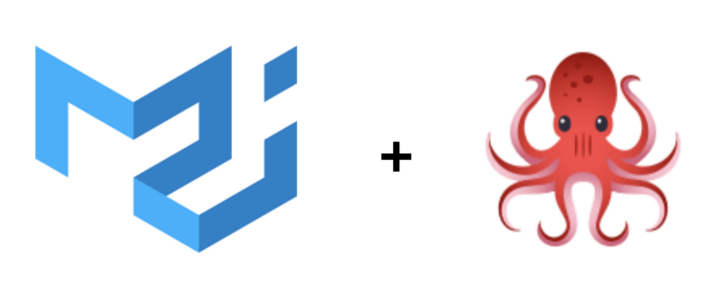
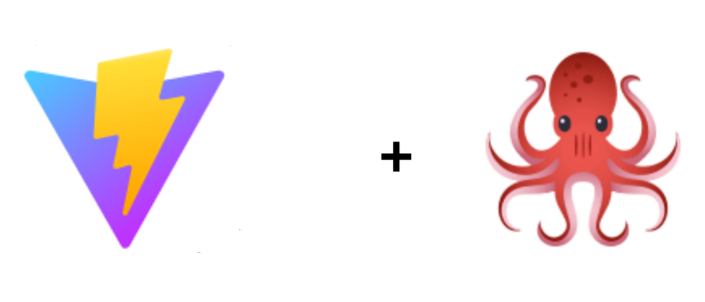
feat: Add custom Article testing-front-with-testing-library and vite

Changed region(s): [[0.0312, 0.149, 0.4369, 0.8344], [0.3745, 0.149, 0.4369, 0.3278]]

diff --git a/src/data/index.js b/src/data/index.js
@@ -34,7 +34,8 @@ export const cardsSkillsBlog = [
       "Frontend"
     ],
     "intro": "In software development the priority is quality and speed, and the best way to reach this is learn Material UI, the best library of components for react",
-    "image": "../src/assets/imgs/skill-cards/front1.png"
+    "image": "../src/assets/imgs/skill-cards/front1.png",
+    "content": []
   },
   {
     "id": 3,
@@ -44,7 +45,8 @@ export const cardsSkillsBlog = [
       "Testing Library"
     ],
     "intro": "Everybody know that testing is an essential practice in software development that help us to build robust and hight quality app. To test front-end react apps uses testing library",
-    "image": "../src/assets/imgs/skill-cards/thumb-section.jpg"
+    "image": "../src/assets/imgs/skill-cards/thumb-section.jpg",
+    "content": []
   },
   {
     "id": 4,
@@ -55,18 +57,172 @@ export const cardsSkillsBlog = [
       "CSS"
     ],
     "intro": "The CSS box model is a container that contains multiple properties including borders, margin, padding, and the content itself. Learn how to apply it, is the first step to create usables and effective design apps",
-    "image": "../src/assets/imgs/skill-cards/es6yjs.png"
+    "image": "../src/assets/imgs/skill-cards/es6yjs.png",
+    "content": []
   },
   {
     "id": 5,
-    "title": "Testing front with testing library in MaterialUI",
+    "title": "Testing front with testing library and Vite",
     "section": "testing",
     "badge": [
       "Testing Library",
       "React"
     ],
     "intro": "Vite is a great and amazing boilerplate to developing speed react apps, but is neccesary make some configurations, here will explore some strategies to start the suite test",
-    "image": "../src/assets/imgs/skill-cards/sass.png"
+    "image": "../src/assets/imgs/skill-cards/sass.png",
+    "content": [
+      {
+        "type": "p",
+        "node": [
+          {
+            "type": "nested",
+            "node": "<strong>Importante:</strong> Los conceptos son generales y aplican para cualquier aplicación escrita en x lenguaje, sin embargo las herramientas son particularmente utilizadas para testear una aplicación desarrollada con react.",
+          }
+        ],
+      },
+      {
+        "type": "h4",
+        "node": "Pruebas unitarias en Vite"
+      },
+      {
+        "type": "p",
+        "node": [
+          {
+            "type": "nested",
+            "node": "Para comenzar siempre es importante dar una atenta leída al <strong>get started</strong> del recurso en cuestión, es este caso de jest, aquí: <a href='https://jestjs.io/docs/getting-started'><em>Jest Getting Started</em></a>"
+          }
+        ]
+      },
+      {
+        "type": "p",
+        "node": "Igualmente para todos los desarrolladores involucrados la creación de pruebas unitarias es muy favorable comenzar con la automátización del proceso de ejecución, es muy pesado andar ejecutando comandos repetitivos una y otra vez, cuando se puede ejecutar uno que se mantenga a la escucha de cambios, aquí el de jest: "
+      },
+      {
+        "type": "code",
+        "node": "jest --watchAll"
+      },
+      {
+        "type": "p",
+        "node": "No olvides instalar la dependencia de jest en Vite, y por supuesto la librería de testing para react, yo lo hago con yarn:"
+      },
+      {
+        "type": "code",
+        "node": "yarn add jest @testing-library/react"
+      },
+      {
+        "type": "p",
+        "node": "Otra cuestión de ayuda muy importante para el desarrollo hoy en día lo proporcionan las IDE's, la más importante hoy en día por mucho es Visual Studio Code, con ayuda de su intellisense tenemos acceso a métodos y propiedades de la librería de jest de forma predictiva, para ello basta con escribir las primeras letras para que nos sugiera algún autocompletado, sin embargo no es automático; hay que instalar los tipos de Jest con el siguiente comando:"
+      },
+      {
+        "type": "code",
+        "node": "yarn add –D @types/jest"
+      },
+      {
+        "type": "p",
+        "node": [
+          {
+            "type": "nested",
+            "node": "Algo más que nos puede ayudar a mejorar el flujo de trabajo y hacerlo más rapido y eficiente, es aislar las pruebas por componente trabajado. Ya que si se estamos en modo “observador” cada cambio involucra todo el conjunto de pruebas que viven dentro de la carpeta test, lo que significa que ejecutara todo el proyecto por cada cambio, ineficiente no? Jest a través de la Línea de comandos nos ofrece la solucion: después de realizar algún cambio en el archivo a trabajar, presionar la letra <strong>w</strong>, estando en el CLI y a continuación la letra <strong>p</strong> lo que nos permitirá escribir el título del archivo y ejecutar unicamente ese test. El realizar esta acción mantiene a Jest escuchando cambiós en ese archivo; cuándo necesitemos pasar a otro archivo o componente realizamos el mismo procedimiento y listo."
+          }
+        ]
+      },
+      {
+        "type": "h4",
+        "node": "Recomendaciones y buenas prácticas al realizar pruebas unitarias:"
+      },
+      {
+        "type": "p",
+        "node": "A continuación una pequeña lista con algunas recomendaciones para realizar las pruebas unitarias:"
+      },
+      {
+        "type": "ul",
+        "node": [
+          {
+            "type": "nested",
+            "node": "<li>Es recomendable trabajar con el Snapshot sólo cuando se tiene el producto final y no en tiempo de desarrollo ya que los constantes cambios al componente provocan una actualización continua.</li><li>De la misma manera hay que buscar que las pruebas verifiquen lo que se necesita pero que al mismo tiempo sean flexibles. Es decir probar la existencia de valores en un arreglo podría indicar la conexión exitosa a un backend y no esperar la longitud de un arreglo específico</li><li>Vale la pena darse un tiempo para analizar la ruta crítica de una funcionalidad o de la aplicación; lo que en la práctica ayudaría a evitar perder tiempo en acciones dependientes de la alguna funcionalidad dentro de la <strong>ruta crítica</strong></li><li>Para hacer las pruebas unitarias más eficientes es muy importante analizar el código y tener claro que se espera haga; si se reciben props de tipo función que se espera que hagan, si se reciben argumentos en una función que se espera resuelva, etc</li><li>Hay que verificar que pruebas son aplicables a un componente, o función, ya que hay tareas que no corresponden al correcto funcionamiento de un components, como podría ser la actualización de un estado ya sea mediante un useState, un reducer, o cualquier otra función que podría comprobarse por aparte</li><li>Si alguno de los nombres de directorios de la suite de test coincide con otro directorio de la aplicación que no requiera de test, como puede ser una carpeta mock, es buena práctica nombrarla __mocks__</li><li>Utilizar <em>react-testing-library</em> hace más eficiente las evaluaciones del renderizado de react. Aunado a esto podemos prescindir de utilizar los objetos devueltos por “render” (getByText, container..,) y gestionarlos con la función <strong>screen</strong>; un método importado por testing-library que permite almacenar el objeto generado por la función <strong>render.</strong></li><li>Utilizar la función <strong>debug()</strong> para visualizar en la terminal como luce el objeto de pruebas en el DOM. Es parecido console.log(), pero enfocado al DOM</li>"
+          }
+        ]
+      },
+      {
+        "type": "h4",
+        "node": "Hooks"
+      },
+      {
+        "type": "p",
+        "node": [
+          {
+            "type": "nested",
+            "node": "<strong>Pruebas unitarias de hooks y custom hooks</strong>"
+          },
+        ],
+        "type": "p",
+        "node": "Hoy en día es muy difícil encontrar desarrollos front de react que inicialmente implementen una infrasestructura basada en clases. La lógica se encuentra encapsulada a partir de la versión 16.8 en lo que conocemos como hooks, pero.., como testearlos? ",
+        "type": "p",
+        "node": [
+          {
+            "type": "nested",
+            "node": "Los hooks son funciones, hay que verificar que el argumento recibido se utiliza para devolver lo esperado. Por tanto para lograr esto debemos apoyarnos de <strong>renderHook</strong> función proporcionada por <strong>testing-library</strong>. Debemos pasar el custom hook en el callback proporcionado por renderHook. El resultado se almacena en un objeto llamado: <strong>result.current</strong>"
+          }
+        ],        
+      },
+      // {
+      //   "type": "img",
+      //   "code": ""
+      // },
+      {
+        "type": "h4",
+        "node": "Algunas configuraciones"
+      },
+      {
+        "type": "p",
+        "node": [
+          {
+            "type": "nested",
+            "node": "<strong>jest.setup.js file</strong>"
+          }
+        ]
+      },
+      {
+        "type": "p",
+        "node": [
+          {
+            "type": "nested",
+            "node": "Si queremos configurar nuestro <strong>jest.config</strong> como un módulo de CommonJS por ejemplo: exportarlo con la sintaxis: <strong>module.exports = {}</strong>, hay que prescindir la propiedad type con el valor module: <strong>type:module</strong> del archivo package json."
+          }
+        ]
+      },
+      {
+        "type": "p",
+        "node": [
+          {
+            "type": "nested",
+            "node": "Podemos hacer importaciones globales dentro del archivo de configuración de <strong>jest.setup</strong>, como en el caso de el import de la dependencia <strong>setimmediate</strong>"
+          }
+        ]
+      },
+      {
+        "type": "p",
+        "node": "Las configuraciones agregadas a este archivo son globales al set de pruebas unitarias"
+      },
+      {
+        "type": "p",
+        "node": [
+          {
+            "type": "nested",
+            "node": "<strong>jest.config.js file</strong>"
+          }
+        ]
+      },
+      {
+        "type": "p",
+        "node": "Para evitar agregar archivos de terceros (como puede ser el caso de las dependecias de firebase para trabajar con su módulo de autenticación) es importante agregar la siguiente opción al objeto de configuración de Jest: "
+      },
+      {
+        "type": "code",
+        "node": "transformIgnorePatterns: []"
+      }
+
+    ]
   },
   {
     "id": 6,
@@ -76,7 +232,8 @@ export const cardsSkillsBlog = [
       "Fullstack"
     ],
     "intro": "Create a rest api to consumes in front; create one module to authentication with JWT, validations fields, and CRUD to interact app in front-end",
-    "image": "../src/assets/imgs/skill-cards/fullstack.png"
+    "image": "../src/assets/imgs/skill-cards/fullstack.png",
+    "content": []
   },
   {
     "id": 7,
@@ -184,7 +341,8 @@ export const cardsSkillsBlog = [
       "Desarrollo"
     ],
     "intro": "The SOLID principles tell us how to organize our functions and data structures into components and how those components should be interconnected.",
-    "image": "../src/assets/imgs/skill-cards/solid.jpg"
+    "image": "../src/assets/imgs/skill-cards/solid.jpg",
+    "content": []
   }
 ];
 

diff --git a/src/blog/components/ContentHtml.jsx b/src/blog/components/ContentHtml.jsx
@@ -1,4 +1,4 @@
-import { Typography } from "@mui/material";
+import { Box, Typography } from "@mui/material";
 import { makeStyles } from "@mui/styles";
 
 import { generateId } from "../../helpers";
@@ -6,6 +6,21 @@ import { generateId } from "../../helpers";
 const useStyles = makeStyles({
   aligmentElements: {
     margin: '20px 0 !important'
+  },
+  codeFragment: {
+    display: 'flex',
+    justifyContent: 'center',
+    '& code': {
+      padding: '16px',
+      backgroundColor:"#292d3e",
+      color: "#ffffff",
+      borderRadius: '5px'
+    }
+  },
+  container: {
+    '& li': {
+      marginBottom: '15px'
+    }
   }
 })
 
@@ -17,16 +32,26 @@ export const ContentHtml = ({ content }) => {
   const classes = useStyles();
   const htmlElements = {
     "h4": ({ type, node }) => (
+      <div key={generateId()}>
+        <Box sx={{ mt: 7 }} />
+        <Typography
+          variant={type}
+          component={type}
+          children={node}
+          className={classes.aligmentElements}
+        />
+      </div>
+    ),
+    "p": ({ node }) => (
       <Typography
         key={generateId()}
-        variant={type}
-        component={type}
+        paragraph
         children={node}
         className={classes.aligmentElements}
       />
     ),
+    "code": ({ node }) => <div className={classes.codeFragment} key={generateId()}><code>{ node }</code></div>,
     "nested": ({ node, parent }) => {
-      console.log(variant[parent])
       return (
         <Typography
           dangerouslySetInnerHTML={{ __html: node }}
@@ -56,11 +81,11 @@ export const ContentHtml = ({ content }) => {
   const parser = (collection) => collection.map(createHtml)
 
   return (
-    <>
+    <div className={classes.container}>
       {
         parser(content)
       }
-    </>
+    </div>
   )
 }
 

diff --git a/src/blog/pages/BlogDetailPage.jsx b/src/blog/pages/BlogDetailPage.jsx
@@ -2,9 +2,9 @@
 import { Box, Container, Grid, Typography } from "@mui/material";
 import { makeStyles } from "@mui/styles";
 import { useLocation, useParams } from "react-router-dom";
+import { ContentHtml } from "../";
 import { contentSection, pathSection } from "../../helpers/utils";
 import { useBlogStore } from "../../hooks";
-import { ContentHtml } from "../components/ContentHtml";
 import { LayoutBlog } from "./LayoutBlog";
 
 const useStyles = makeStyles({
@@ -65,7 +65,7 @@ export const BlogDetailPage = () => {
 
             <Grid item xs={12}>
             <Typography variant="body1" paragraph align="left" className={classes.marginIntroText}>
-              { intro }
+              <em>{ intro }</em>
             </Typography>
             </Grid>
 
